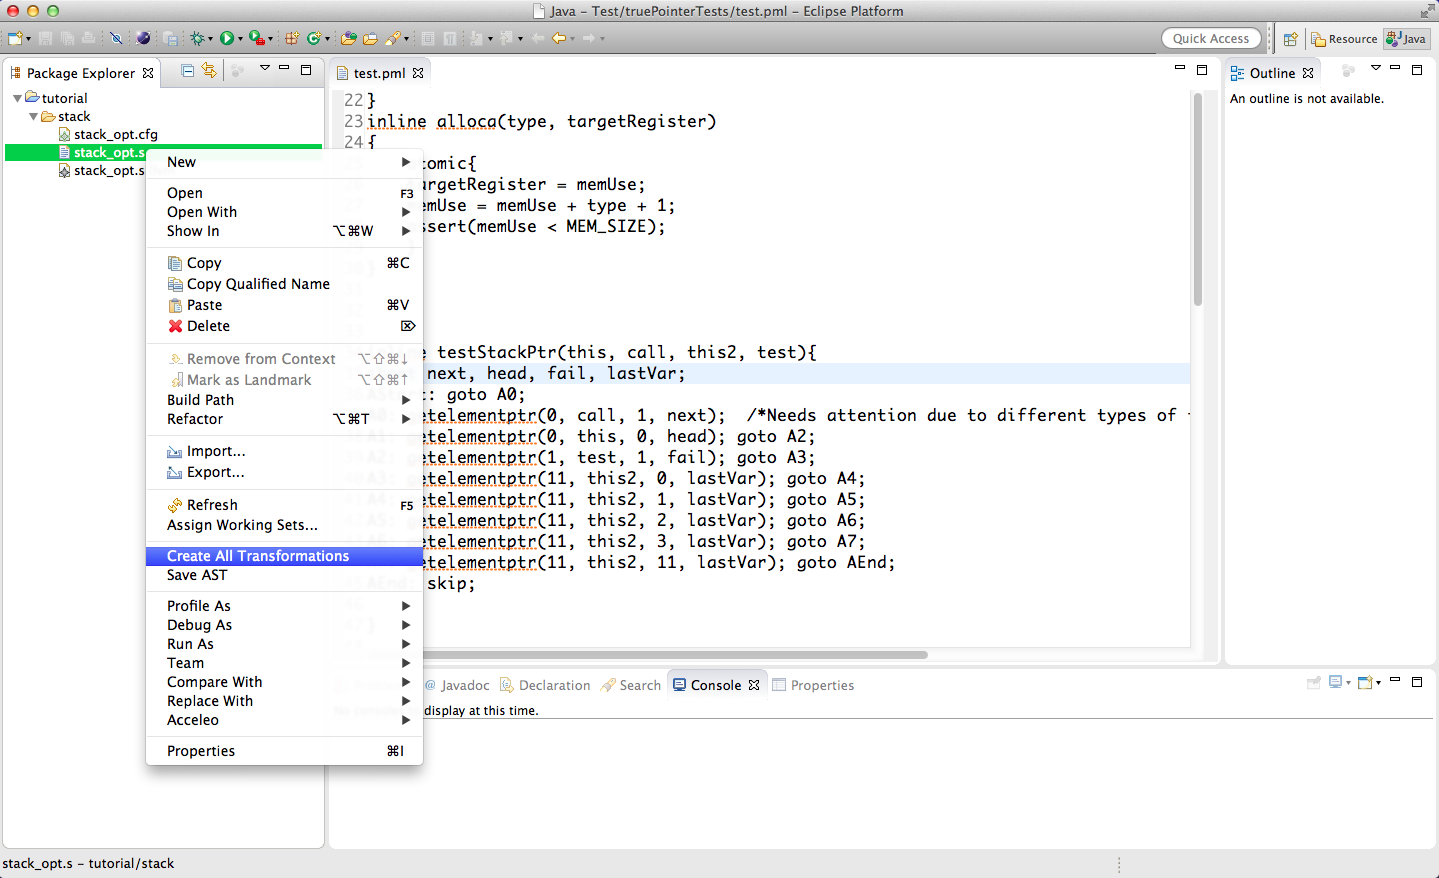
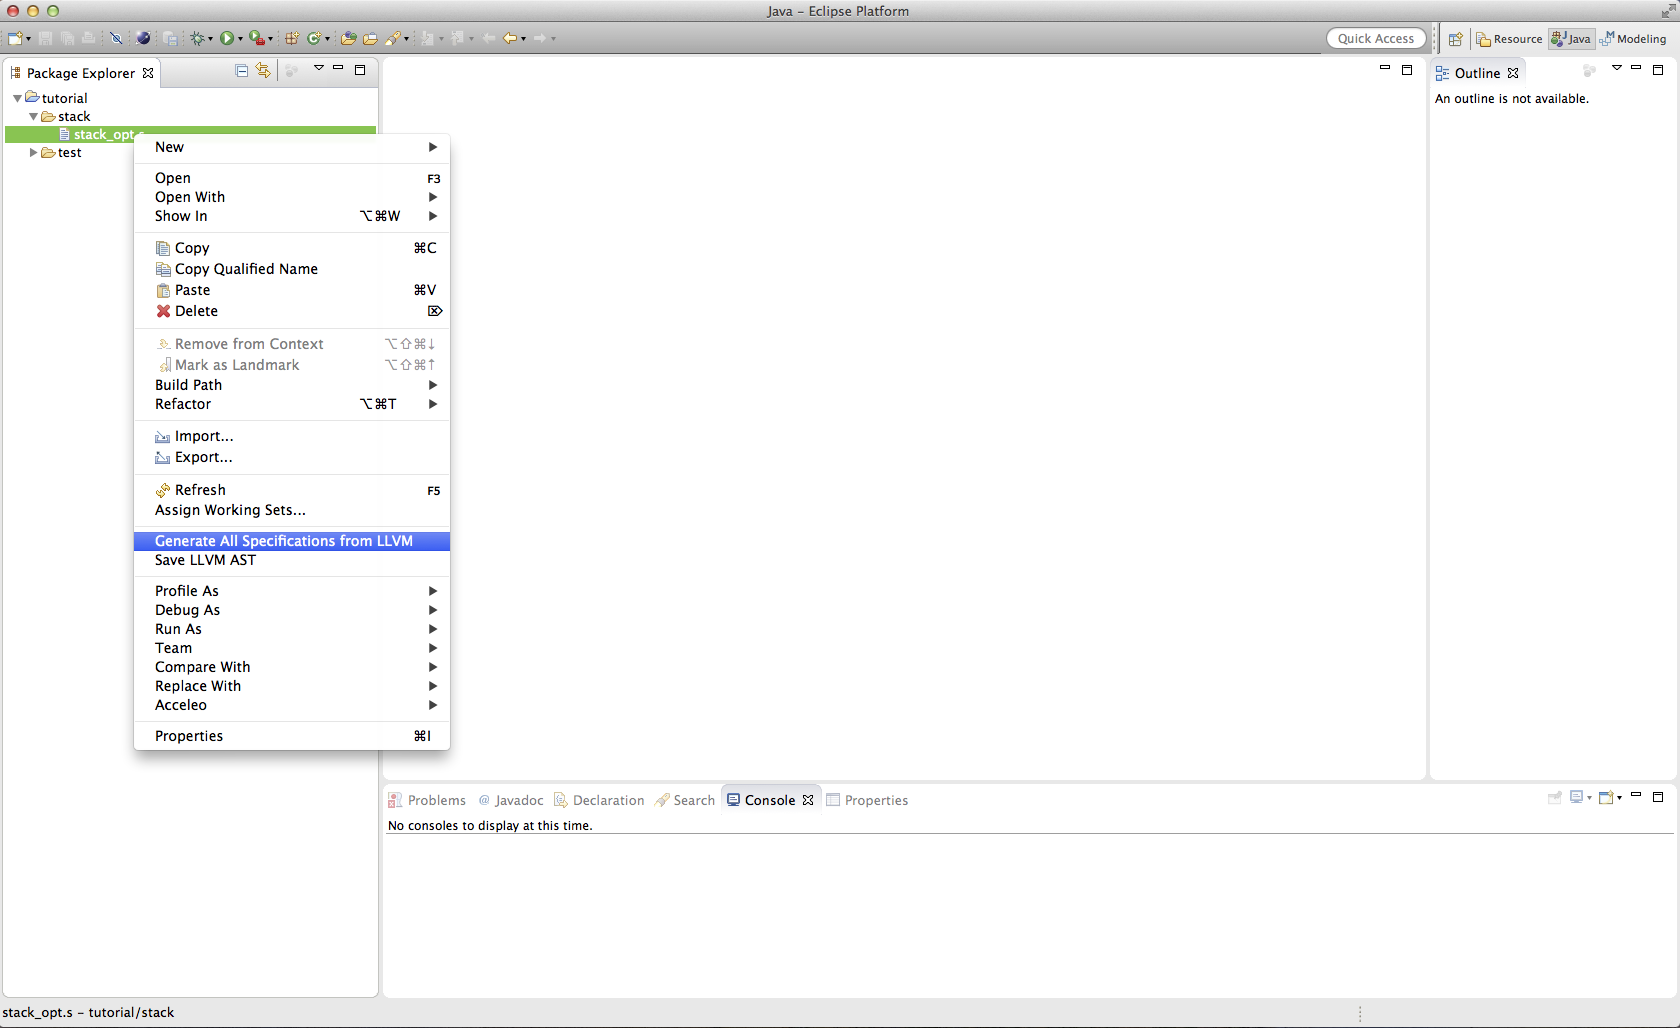
Adapted documentation plugin.
- added content for store buffer graph generation and visualization
- added content for generating a specification using the one step wizard
- replaced screenshots with current versions
- removed references section
- removed several typos
- replaced on wizard names with new ones
- moved pictures to different subfolders

Changed region(s): [[0.0, 0.0, 1.0, 0.8918], [0.0, 0.9533, 0.1223, 1.0]]

diff --git a/de.upb.lina.doc/html/gettingstarted/stepbystep.html b/de.upb.lina.doc/html/gettingstarted/stepbystep.html
@@ -15,7 +15,7 @@
 </head>
 
 <body>
-	<h1>Step by Step Tutorial</h1>
+	<h1>Step by Step including intermediate Files</h1>
 	In the following we will provide a step by step tutorial showing how to get from a C file to a valid Promela or KIV 
 	specification, which can be used as input for a model checker. Each step is shown in detail, including screenshots which can be clicked to obtain a larger version.
 
@@ -28,14 +28,14 @@
 	<h2>2. From LLVM to AST</h2>
 	Once you obtained the LLVM code in the form of a '.s' file, you right click the '.s' file and choose 'Save AST'. 
 	</br>
-	<a href="img/01_saveAst.png">
-		<img src="img/01_saveAst.png" class="fixed-ratio-resize">
+	<a href="img/step_by_step/01_saveAst.png">
+		<img src="img/step_by_step/01_saveAst.png" class="fixed-ratio-resize">
 	</a>
 	</br>
 	You will be prompted with a save dialog, where you can choose both the parent folder and the file name of the AST file to be generated.
 	</br>
-	<a href="img/02_saveAst.png">
-		<img src="img/02_saveAst.png" class="fixed-ratio-resize">
+	<a href="img/step_by_step/02_saveAst.png">
+		<img src="img/step_by_step/02_saveAst.png" class="fixed-ratio-resize">
 	</a>
 	</br>
 	By default the folder containing the LLVM file is selected as a parent folder, whereas the default file name is the name of the '.s' file 
@@ -43,30 +43,30 @@
 
 	In case the '.s' file contains any syntax errors, you will be notified and asked if you want to abort the AST generation.
 	</br>
-	<a href="img/03_saveAstError.png">
-		<img src="img/03_saveAstError.png" class="fixed-ratio-resize">
+	<a href="img/step_by_step/03_saveAstError.png">
+		<img src="img/step_by_step/03_saveAstError.png" class="fixed-ratio-resize">
 	</a>
 	</br>
 	<h2>3. From AST to SBG</h2>
 	After the '.LLVM' AST file has been generated, it is time to generate a store buffer graph for a specific memory model. In order to do so, right click the '.LLVM' file 
 	and choose 'New->Other'.
 	</br>
-	<a href="img/04_newOther.png">
-		<img src="img/04_newOther.png" class="fixed-ratio-resize">
+	<a href="img/step_by_step/04_newOther.png">
+		<img src="img/step_by_step/04_newOther.png" class="fixed-ratio-resize">
 	</a>
 	</br>
-	Next choose the wizard category 'LINA' and select 'New Store Buffer Graph'.
+	Next choose the wizard category 'Weak2SC' and select 'Derive Store Buffer Graph from LLVM'.
 	</br>
-	<a href="img/05_newCFG.png">
-		<img src="img/05_newCFG.png" class="fixed-ratio-resize">
+	<a href="img/step_by_step/05_newCFG.png">
+		<img src="img/step_by_step/05_newCFG.png" class="fixed-ratio-resize">
 	</a>
 	</br>
 	After clicking 'Next' you will find yourself in the AST selection wizard page where you can choose the AST file you want to generate a store buffer graph for. You have provide
 	a path to a valid '.LLVM' AST file and both a container and file name for the resulting store buffer graph file. Furthermore you have to choose a memory model as a reordering
 	strategy. 
 	</br>
-	<a href="img/06_newCFG.png">
-		<img src="img/06_newCFG.png" class="fixed-ratio-resize">
+	<a href="img/step_by_step/06_newCFG.png">
+		<img src="img/step_by_step/06_newCFG.png" class="fixed-ratio-resize">
 	</a>
 	</br>
 	Since you right clicked your 'LLVM' file the correct AST file is already chosen and the container for the store buffer graph is chosen accordingly. As a default file name, the AST file 
@@ -79,29 +79,28 @@
 	<h2>4. From SBG to specification</h2>
 	Once again you right click the '.cfg' file and choose 'New->Other' and will be asked to selet a wizard. Select the 'Generate New Specification' wizard from the 'LINA' category. 
 	</br>
-	<a href="img/07_newSpec.png">
-		<img src="img/07_newSpec.png" class="fixed-ratio-resize">
+	<a href="img/step_by_step/07_newSpec.png">
+		<img src="img/step_by_step/07_newSpec.png" class="fixed-ratio-resize">
 	</a>
 	</br>
 	Now you should see the SBG selection wizard page where you have to choose a store buffer graph file, a target container for the specification and a transformation type. Depending 
 	on the transformation type, you might also have to choose a file name for the specification and a basis. 
 	</br>
-	<a href="img/08_newSpec.png">
-		<img src="img/08_newSpec.png" class="fixed-ratio-resize">
+	<a href="img/step_by_step/08_newSpec.png">
+		<img src="img/step_by_step/08_newSpec.png" class="fixed-ratio-resize">
 	</a>
 	</br>
 
 	At this point you can either hit 'Finish' to start the transformation to generate the whole specification, including all functions, or hit 'Next' to decide which functions should be
 	included in the specification and which not. You can also rename functions for the transformation. If you do so, you will find the old function names as comments in the transformation.
 	</br>
-	<a href="img/09_newSpec.png">
-		<img src="img/09_newSpec.png" class="fixed-ratio-resize">
+	<a href="img/step_by_step/09_newSpec.png">
+		<img src="img/step_by_step/09_newSpec.png" class="fixed-ratio-resize">
 	</a>
 	
 	<h2>5. Manual Problem Resolution</h2>
 	You should be able to open your specification file(s) now in order to take a first look at it. If the tool had trouble with certain parts of the specification, you will be 
-	notified by a comment in the according line stating a 'TODO' or 'NEEDS ATTENTION'. For a more detailed explanation of these situations, have a look at the <a href="problems.html">problems
-	section</a>.
+	notified by a comment in the according line stating a 'TODO' or 'NEEDS ATTENTION'.
 	</br>
 	</br>
 	

diff --git a/de.upb.lina.doc/html/gettingstarted/generate_sbg.html b/de.upb.lina.doc/html/gettingstarted/generate_sbg.html
@@ -1,0 +1,77 @@
+<!DOCTYPE HTML PUBLIC "-//W3C//DTD HTML 4.0 Transitional//EN">
+
+<html>
+<head>
+	<meta http-equiv="Content-Type" content="text/html; charset=iso-8859-1">
+	<title>Generate Store Buffer Graphs</title>
+	
+<style>
+.fixed-ratio-resize { /* basic responsive img */
+	max-width: 80%;
+	height: auto;
+	width: auto\9; /* IE8 */
+}
+</style>
+</head>
+
+<body>
+	<h1>Generate Store Buffer Graphs</h1>
+	In the following we will show how to generate store buffer graphs from LLVM code and the according visualization.
+	</br>
+	<h2>How to: Generation</h2>
+	Take a look at the <a href="stepbystep.html">step by step guide</a> to see how to generate a LLVM file for a C file. Once you have a '.s' file, 
+	right click it and select "New -> Other".
+	</br>
+	<a href="img/step_by_step/04_newOther.png">
+		<img src="img/step_by_step/04_newOther.png" class="fixed-ratio-resize">
+	</a>
+	</br>
+	Next choose the wizard category 'Weak2SC' and select 'Derive Store Buffer Graph from LLVM'.
+	</br>
+	<a href="img/step_by_step/05_newCFG.png">
+		<img src="img/step_by_step/05_newCFG.png" class="fixed-ratio-resize">
+	</a>
+	</br>
+	On the first page of the wizard you will be able to configure the generation by providing an input file, output file, output folder and the memory models semantics.
+	</br>
+	<a href="img/step_by_step/06_newCFG.png">
+		<img src="img/step_by_step/06_newCFG.png" class="fixed-ratio-resize">
+	</a>
+	</br>
+	The AST file will be checked automatically for errors, unsupported LLVM code and other problems. If no problems are found, you can press 'Finish' and will find a generated store buffer graph
+	file in the specified folder. If any error was found, you will not be able to click 'Finish', but you have to choose 'Next' and will find a list of the errors. In case only minor 
+	problems are found, you will receive a warning and can see the full list in the same wizard page. 
+	</br> 
+	After clicking 'Finish' you will find you store buffer graph file with the extension '.cfg' in the output folder you chose. 
+	
+	<h2>How to: Visualization</h2>
+	Right-click your store buffer graph file ('.cfg') and select 'Initialize cfg_diagram diagram file'. 
+	</br>
+	<a href="img/diagram/01_diagram.png">
+		<img src="img/diagram/01_diagram.png" class="fixed-ratio-resize">
+	</a>
+	</br>
+	On the first page of the wizard you will be asked to select an output folder and name for your diagram file. Change these fields to you desire and press 'Next'.
+	</br>
+	<a href="img/diagram/02_diagram.png">
+		<img src="img/diagram/02_diagram.png" class="fixed-ratio-resize">
+	</a>
+	</br>
+	On the next page you can select which element of the store buffer graph file should visualized. Please note that this wizard is generated and therefore it might be possible that
+	you will be able to see strange elements to be visualized. These ones can simply be ignored. Usually you will be interested in generation the visualization of the store
+	buffer graph for a specific function. To do so simply select the function and click on 'Finish'.
+	</br>
+	<a href="img/diagram/03_diagram.png">
+		<img src="img/diagram/03_diagram.png" class="fixed-ratio-resize">
+	</a>
+	</br>
+	After that you can find the store buffer graph visualization file ('.cfg_diagram') in the output folder you chose. Opening it, you can find a visualization of the function 
+	you chose: 
+	</br>
+	<a href="img/diagram/04_diagram.png">
+		<img src="img/diagram/04_diagram.png" class="fixed-ratio-resize">
+	</a>
+	</br>
+	States with buffers are marked with '< >', containing the current buffer entries as tuples.
+	</br>
+</body>

diff --git a/de.upb.lina.doc/html/gettingstarted/one_step_specification_from_llvm.html b/de.upb.lina.doc/html/gettingstarted/one_step_specification_from_llvm.html
@@ -1,0 +1,57 @@
+<!DOCTYPE HTML PUBLIC "-//W3C//DTD HTML 4.0 Transitional//EN">
+
+<html>
+<head>
+	<meta http-equiv="Content-Type" content="text/html; charset=iso-8859-1">
+	<title>From LLVM to Specification in a single Step</title>
+	
+<style>
+.fixed-ratio-resize { /* basic responsive img */
+	max-width: 80%;
+	height: auto;
+	width: auto\9; /* IE8 */
+}
+</style>
+</head>
+
+<body>
+	<h1>From LLVM to Specification in a single Step</h1>
+	In the following we show how to generate a specification directly from a LLVM file without intermediate steps and files.
+	
+	<h2>How To</h2>
+	Take a look at the <a href="stepbystep.html">step by step guide</a> to see how to generate a LLVM file for a C file. Once you have a '.s' file, 
+	right click it and select "New -> Other".
+	</br>
+	<a href="img/step_by_step/04_newOther.png">
+		<img src="img/step_by_step/04_newOther.png" class="fixed-ratio-resize">
+	</a>
+	</br>
+	Next choose the wizard category 'Weak2SC' and select 'Generate Specification from LLVM in one Step'.
+	</br>
+	<a href="img/one_step/01_oneStep.png">
+		<img src="img/one_step/01_oneStep.png" class="fixed-ratio-resize">
+	</a>
+	</br>
+	On the first page of the wizard you will be able to select several configuration parameters for the transformation such as the output folder, the memory model semantics
+	and the type of transformation, i.e. the type of the output specification. Change the values to your desire and click on 'Next'.
+	</br>
+	<a href="img/one_step/02_oneStep.png">
+		<img src="img/one_step/02_oneStep.png" class="fixed-ratio-resize">
+	</a>
+	</br>
+	On the next page you will be informed about warnings and errors depending on your specification configuration. Errors make the generation impossible and need to be fixed, whereas 
+	problems could be ignored but might lead to strange behavior.
+	</br>
+	<a href="img/one_step/03_oneStep.png">
+		<img src="img/one_step/03_oneStep.png" class="fixed-ratio-resize">
+	</a>
+	</br>
+	After you have dealt with all warnings and problems, you can click on 'Next' and will be brought to the last page, where you can select specific functions and rename.
+	</br>
+	<a href="img/one_step/04_oneStep.png">
+		<img src="img/one_step/04_oneStep.png" class="fixed-ratio-resize">
+	</a>
+	</br>
+	A last click on 'Finish' will start the generation process.
+	
+</body>

diff --git a/de.upb.lina.doc/html/gettingstarted/quickstart.html b/de.upb.lina.doc/html/gettingstarted/quickstart.html
@@ -17,10 +17,11 @@
 <body>
 	<h1>Generate All Specifications</h1>
 	If you are interested in obtaining all supported specifications for a LLVM file, there is a simple way to generate those. Using our "Create All Transformations" feature you can
-	generate all specifications for all memory models, currently supported. The required intermediate files will be generated on the fly and deleted at the end of the transformation. 
+	generate all specifications for all memory models currently supported. The required intermediate files will be generated on the fly and deleted at the end of the transformation.
+	Please note that literally all possible settings for all possible parameters we support are generated, regardless of whether the make sense or not. 
 	<h2>How To</h2>
-	Take a look at the <a href="stepbystep.html">step by step guide</a> to see how to generate an LLVM file for a C file. If you have a LLVM ('.s') file, right click it and select 
-	'Create All Transformations'. All transformations will be placed in folders named regarding the settings of the specification. All generated folders will be in the same folder as 
+	Take a look at the <a href="stepbystep.html">step by step guide</a> to see how to generate a LLVM file for a C file. If you have a LLVM ('.s') file, right click it and select 
+	'Create All Transformations from LLVM'. All transformations will be placed in folders named regarding the settings of the specification. All generated folders will be in the same folder as 
 	the original LLVM file.
 	</br>
 	<a href="img/quickstart/01_CAT.png">
@@ -42,7 +43,7 @@
 			<li>non operational</li>
 		</ul>
 	</ul>
-	for each currently supported memory model. For a list of the supported memory models, check TODO.
+	for each currently supported memory model. For a list of the supported memory models, take a look at the list of  <a href="supported_memory_models.html"> supported memory models<a/>.
 	</br>
 	Please note that this process might take a while.
 	</br>

diff --git a/de.upb.lina.doc/html/gettingstarted/supported_memory_models.html b/de.upb.lina.doc/html/gettingstarted/supported_memory_models.html
@@ -1,0 +1,26 @@
+<!DOCTYPE HTML PUBLIC "-//W3C//DTD HTML 4.0 Transitional//EN">
+
+<html>
+<head>
+	<meta http-equiv="Content-Type" content="text/html; charset=iso-8859-1">
+	<title>Supported Memory Models</title>
+	
+<style>
+.fixed-ratio-resize { /* basic responsive img */
+	max-width: 80%;
+	height: auto;
+	width: auto\9; /* IE8 */
+}
+</style>
+</head>
+
+<body>
+	<h1>Supported Memory Models</h1>
+	The following memory models are currently supported:
+	</br>
+	<ul>
+		<li>Sequential Consistency (SC)</li>
+		<li>Total Store Ordering (TSO)</li>
+		<li>Partial Store Ordering (PSO)</li>
+	</ul>
+</body>
